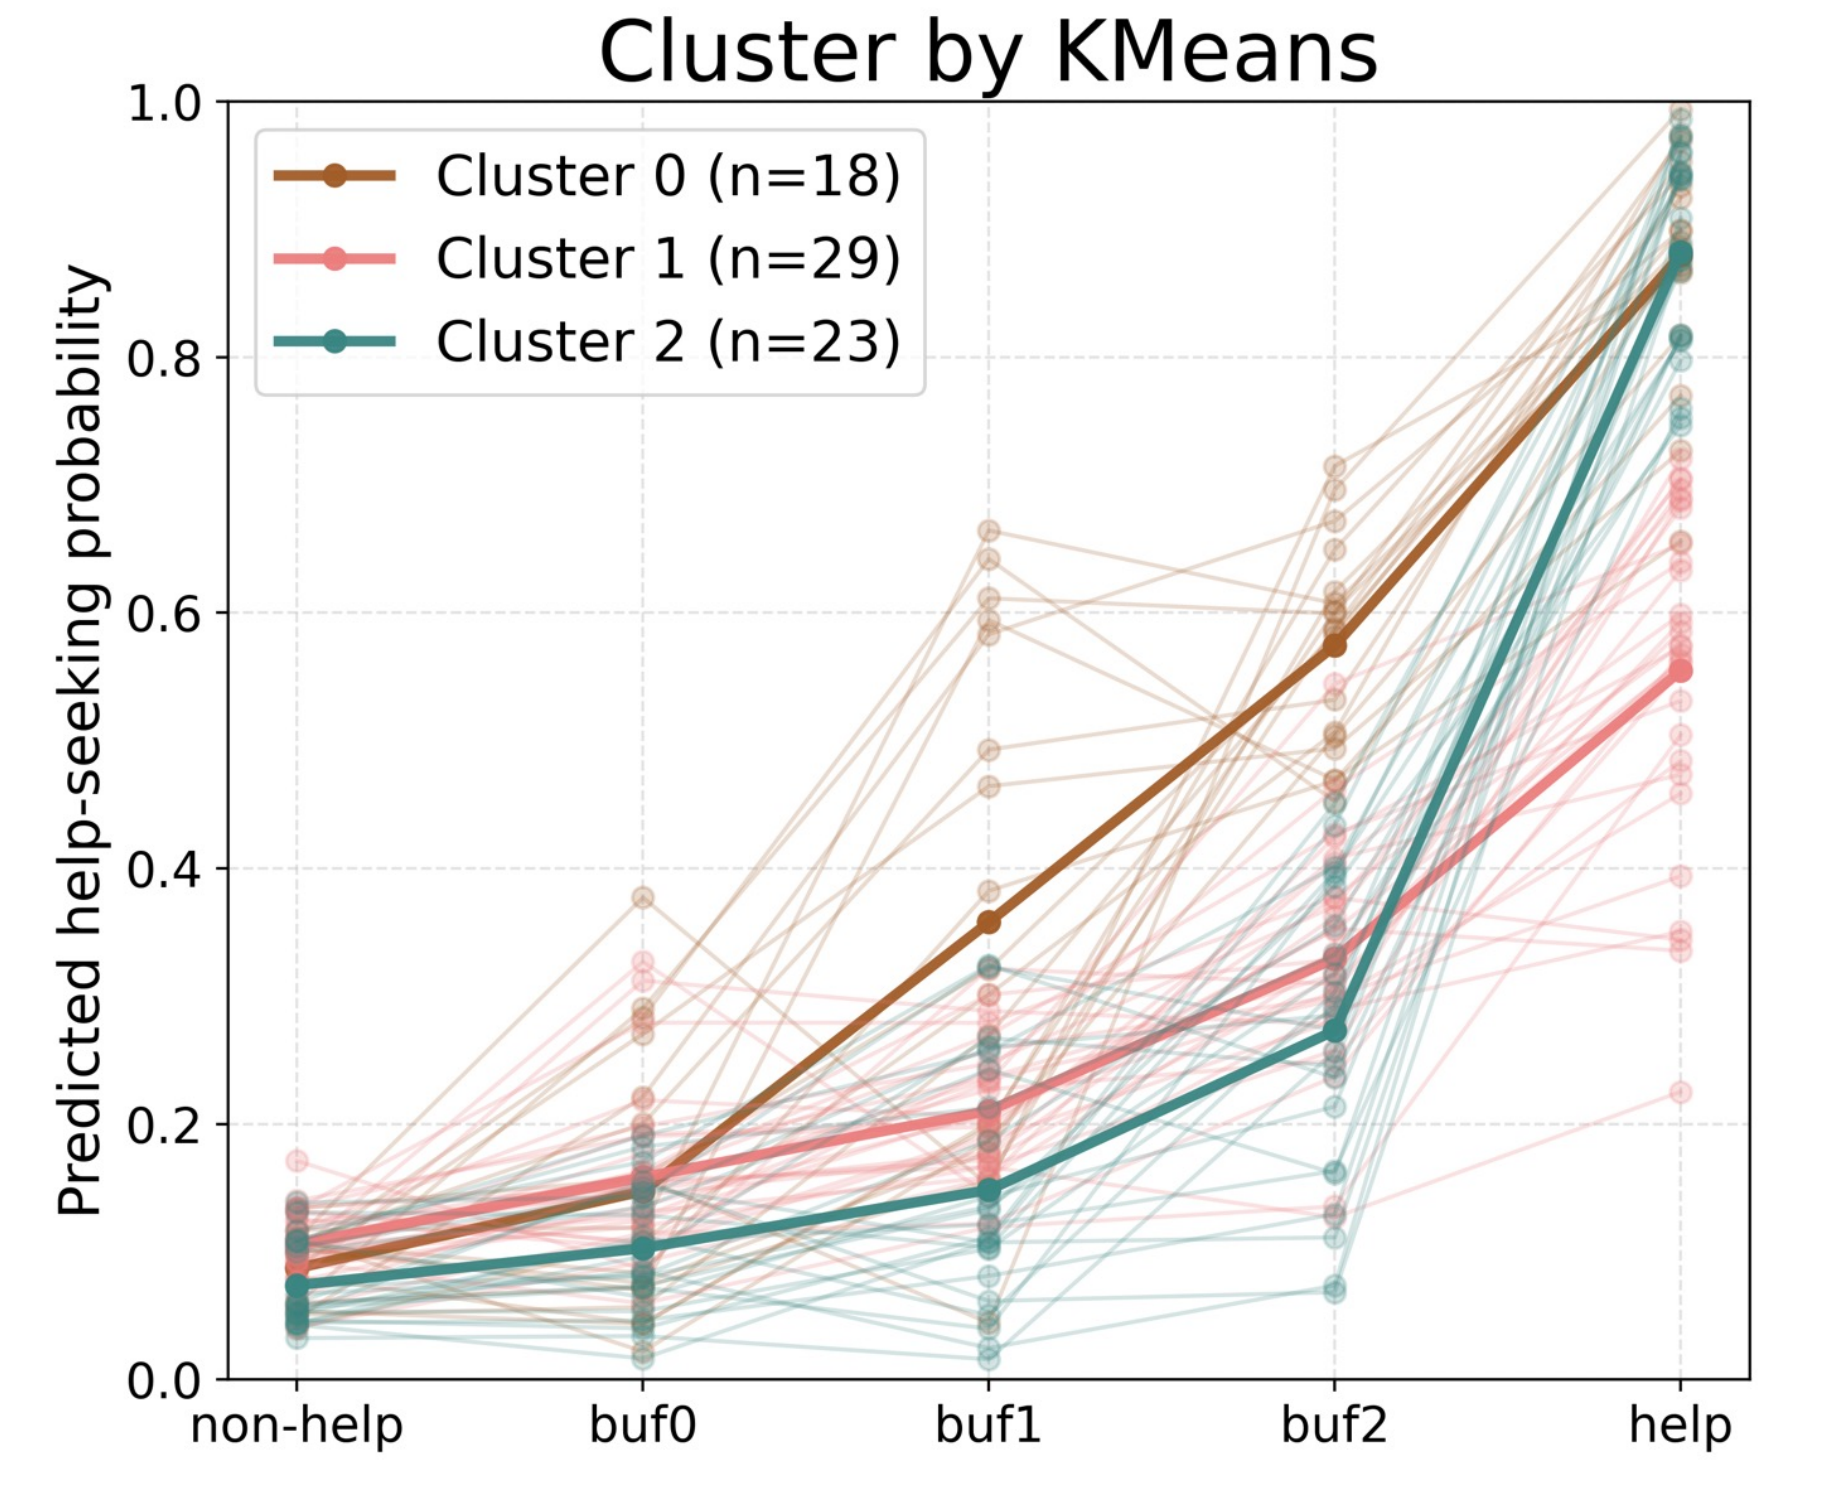
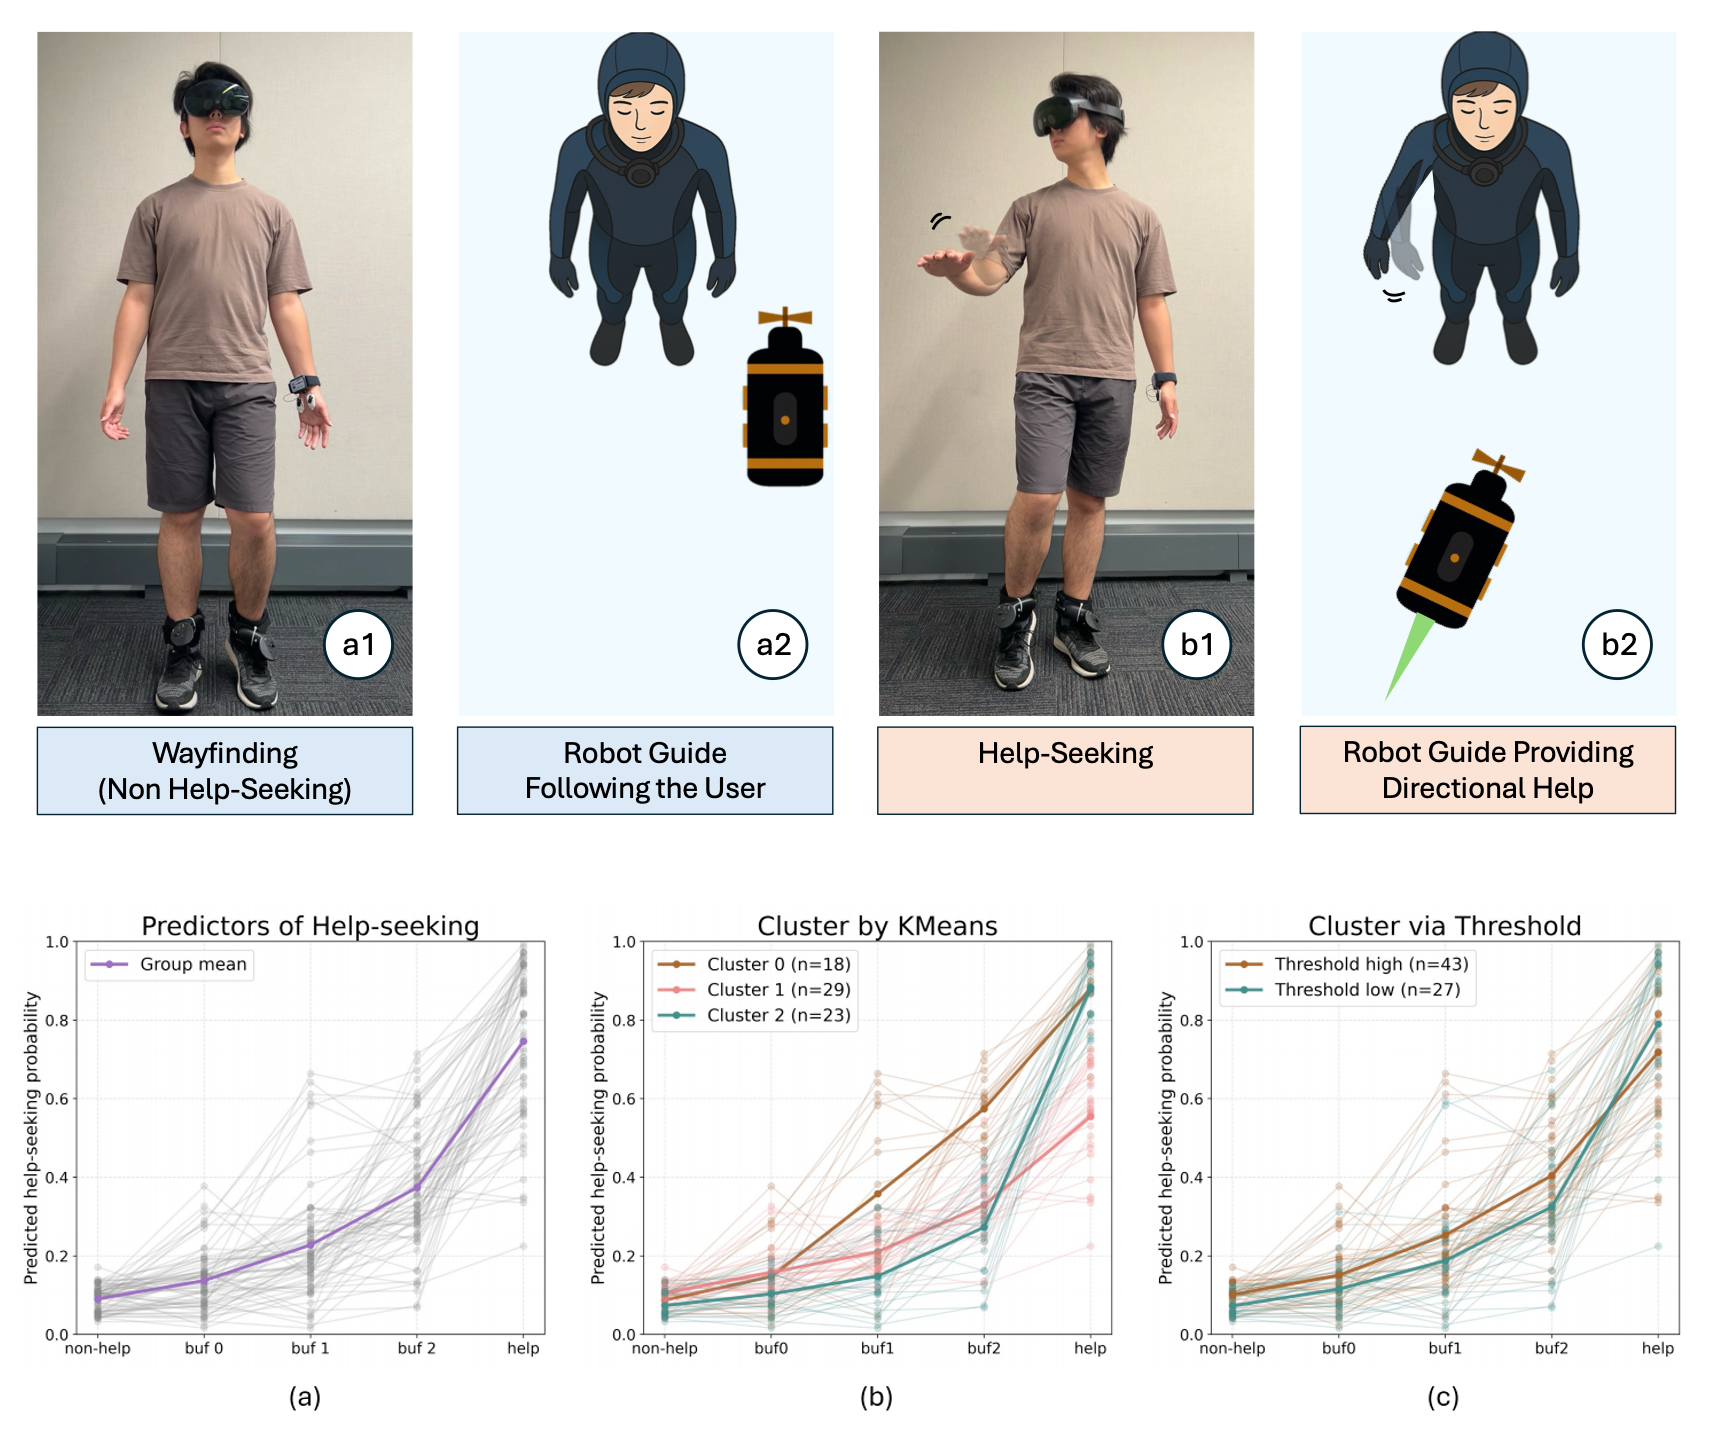
add publication images

diff --git a/_pages/about.md b/_pages/about.md
@@ -9,8 +9,7 @@ profile:
   image: prof_pic.jpg
   image_circular: false # crops the image to make it circular
   more_info: >
-    <p>Ph.D. Student at Cornell University</p>
-    <p>tl889@cornell.edu</p>
+    <p>tl889[at]cornell.edu</p>
 
 selected_papers: false # includes a list of papers marked as "selected={true}"
 social: false # includes social icons at the bottom of the page
@@ -150,7 +149,7 @@ Feel free to connect me via [Linkedin](https://www.linkedin.com/in/tianqi-liu-83
 <!-- Paper 6 -->
 <div class="row" style="margin-bottom: 30px;">
   <div class="col-sm-4 mt-3 mt-sm-0">
-    <img src="/assets/img/paper_llm_blind_vr.jpg" alt="project teaser" class="img-fluid rounded z-depth-1">
+    <img src="/assets/publication_img/AI Guide.png" alt="project teaser" class="img-fluid rounded z-depth-1">
   </div>
   <div class="col-sm-8">
     <h4 style="margin-top: 0; font-size: 1.2rem;">
@@ -192,7 +191,7 @@ Feel free to connect me via [Linkedin](https://www.linkedin.com/in/tianqi-liu-83
 <!-- Paper 8 -->
 <div class="row" style="margin-bottom: 30px;">
   <div class="col-sm-4 mt-3 mt-sm-0">
-    <img src="/assets/img/paper_social_influence.jpg" alt="project teaser" class="img-fluid rounded z-depth-1">
+    <img src="/assets/publication_img/default.png" alt="project teaser" class="img-fluid rounded z-depth-1">
   </div>
   <div class="col-sm-8">
     <h4 style="margin-top: 0; font-size: 1.2rem;">
@@ -212,7 +211,7 @@ Feel free to connect me via [Linkedin](https://www.linkedin.com/in/tianqi-liu-83
 <!-- Paper 9 -->
 <div class="row" style="margin-bottom: 30px;">
   <div class="col-sm-4 mt-3 mt-sm-0">
-    <img src="/assets/img/paper_invisible_strings.jpg" alt="project teaser" class="img-fluid rounded z-depth-1">
+    <img src="/assets/publication_img/default.png" alt="project teaser" class="img-fluid rounded z-depth-1">
   </div>
   <div class="col-sm-8">
     <h4 style="margin-top: 0; font-size: 1.2rem;">
